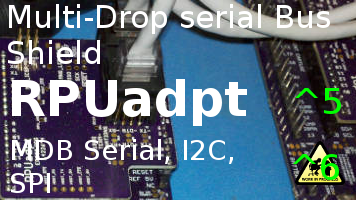
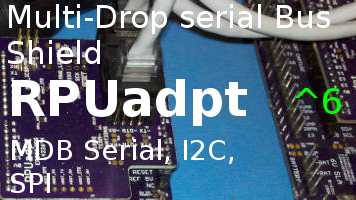
Hardware: some parts for tindie

Changed region(s): [[0.8034, 0.69, 0.9888, 0.93], [0.8961, 0.42, 0.9579, 0.57]]

diff --git a/Hardware/Testing/readme.md b/Hardware/Testing/readme.md
@@ -49,11 +49,11 @@ Apply a 5V source set with a 30mA current limit to the +5V header pin. Check tha
 
 ```
 /^6/328pb
-{   "I_IN_BLANKMCU_mA":[2.0,],
-    "LDO_V":[3.299,] }
+{   "I_IN_BLANKMCU_mA":[2.0,2.5,2.5,],
+    "LDO_V":[3.299,3.307,3.284,] }
 /^5/328p
 {   "I_IN_BLANKMCU_mA":[2.1,2.2,2.6,2.3,2.6,],
-    "LDO_V":[3.285,3.299,3.303,3.275,3.276] }
+    "LDO_V":[3.285,3.299,3.303,3.275,3.276,] }
 ```
 
 ## Set MCU Fuse
@@ -68,7 +68,7 @@ Clone the RPUadpt repository where you want.
 
 ```
 git clone https://github.com/epccs/RPUadpt
-cd Bootload
+cd RPUadpt/Bootload
 ```
 
 Connect a 5V supply with CC mode set at 30mA to the +5V (J7 pin 4) and  0V (J7 pin 2). Connect the ICSP tool (J9). The MCU needs its fuses set, so run the Makefile rule to do that. 
@@ -83,7 +83,7 @@ Disconnect the ICSP tool and measure the input current for 12Mhz crystal at 3.3V
 
 ```
 /^6/328pb
-{   "I_IN_MCU_12MHZ_LP-CRYSTAL_mA":[8.4,]}
+{   "I_IN_MCU_12MHZ_LP-CRYSTAL_mA":[8.4,8.1,8.3,]}
 /^5/328p
 {   "I_IN_MCU_12MHZ_LP-CRYSTAL_mA":[5.1,5.2,5.0,5.5,5.3,5.1,5.1,]}
 # old values for referance
@@ -108,8 +108,8 @@ As the firmware loops the input current can be measured, it should have two dist
 
 ```
 /^6/328pb
-{   "DTR_HLF_LD_mA":[36.8,],
-    "DTR_NO_LD_mA":[13.7,] }
+{   "DTR_HLF_LD_mA":[36.8,37.1,36.6,],
+    "DTR_NO_LD_mA":[13.7,13.6,13.5,] }
 /^5/328p
 {   "DTR_HLF_LD_mA":[33.0,33.1,33.3,32.7,33.0,],
     "DTR_NO_LD_mA":[10.0,10.0,10.1,10.0,10.0,] }
@@ -126,8 +126,8 @@ Check  that the input current is cycling between 56mA and 33mA. At 59mA the TX d
 
 ```
 /^6/328pb
-{   "DTR_TX_HLF_LD_mA":[59.3,],
-    "TX_HLF_LD_mA":[36.4,] }
+{   "DTR_TX_HLF_LD_mA":[59.3,59.6,59.0,],
+    "TX_HLF_LD_mA":[36.4,36.2,36.0,] }
 /^5/328p
 {   "DTR_TX_HLF_LD_mA":[55.0,55.2,54.9,55.5,],
     "TX_HLF_LD_mA":[32.3,32.2,32.0,32.4,] }
@@ -140,8 +140,8 @@ Same as Differential Bias test with a plug in a RJ45 loopback connector to conne
 
 ```
 /^6/328pb
-{   "DTR_HLF_LD_TX_FL_LD_mA":[77.0,],
-    "TX_FL_LD_mA":[53.6,] }
+{   "DTR_HLF_LD_TX_FL_LD_mA":[77.0,77.0,76.7,],
+    "TX_FL_LD_mA":[53.6,54.0,53.4,] }
 /^5/328p
 {   "DTR_HLF_LD_TX_FL_LD_mA":[72.3,72.3,72.1,72.4,],
     "TX_FL_LD_mA":[49.0,49.4,49.2,49.8,] }
@@ -156,8 +156,8 @@ Disconnect TX from ground and Connect it to IOREF, which will disable the TX tra
 
 ```
 /^6/328pb
-{   "DTR_HLF_LD_RX_FL_LD_mA":[82.1,],
-    "RX_FL_LD_mA":[59.3,] }
+{   "DTR_HLF_LD_RX_FL_LD_mA":[82.1,82.8,81.7,],
+    "RX_FL_LD_mA":[59.3,59.3,58.9,] }
 /^5/328p
 {   "DTR_HLF_LD_RX_FL_LD_mA":[73.0,72.7,73.0,72.5,],
     "RX_FL_LD_mA":[50.5,49.9,49.9,49.6,] }
@@ -241,9 +241,7 @@ make bootload
 
 ## I2C Slave test
 
-With i2c-debug loaded in the DUT's MCU board power cycle the DUT board (e.g. disconnect PV and battery from its RPUno). If BUILTIN_LED is connected it will blink at 0.5Hz (1 sec on, and 1 sec off) when I2C reads correctly.
-
-Note: hotplugging can damage the PV.
+With i2c-debug loaded in the DUT's MCU board power cycle the DUT board. If BUILTIN_LED is connected it will blink at 0.5Hz (1 sec on, and 1 sec off) when I2C reads correctly.
 
 For reference, the RPUadpt shield address defaults to '1' and is changed with i2c-debug. The i2c-debug program reads the address during setup, so it will need a reset, remember to change the RPUftid broadcast address to '2', so the RPUadpt will reset it's MCU board.
 

diff --git a/Hardware/README.md b/Hardware/README.md
@@ -51,8 +51,8 @@ The serial port is a wired connection. The hardware is raw and lacks training wh
 ![Status](./status_icon.png "RPUadpt Status")
 
 ```
-        ^6  Done: Design, Layout, BOM, Review*, Order Boards, Assembly, Testing,
-            WIP: Evaluation.
+        ^6  Done: Design, Layout, BOM, Review*, Order Boards, Assembly, Testing, Evaluation.
+            WIP: 
             Todo:  
             *during review the Design may change without changing the revision.
             add IOFF buffer between host (e.g. offboard FTDI Friend) and tranceiver like RPUpi has
@@ -62,11 +62,8 @@ The serial port is a wired connection. The hardware is raw and lacks training wh
             add a jumper to power the SPI from the controller (e.g. RPUno +5V)
             remove ADC6 connction to voltage divider of +5V pin.
 
-        ^5 Done: Design, Layout, BOM, Review*, Order Boards, Assembly, Testing,
-           WIP: Evaluation.
-           location: 2017-3-19 addr '1', SWallEncl /w K3^2, RPUno^9, SLP003-12U.
-           location: 2018-6-19 addr '1', ShopLamp /w RPUlux^2
-           removed from tindie
+        ^5 Done: Design, Layout, BOM, Review*, Order Boards, Assembly, Testing, Evaluation.
+           removed from tindie is used in some locations.
 ```
 
 Debugging and fixing problems i.e. [Schooling](./Schooling/)
